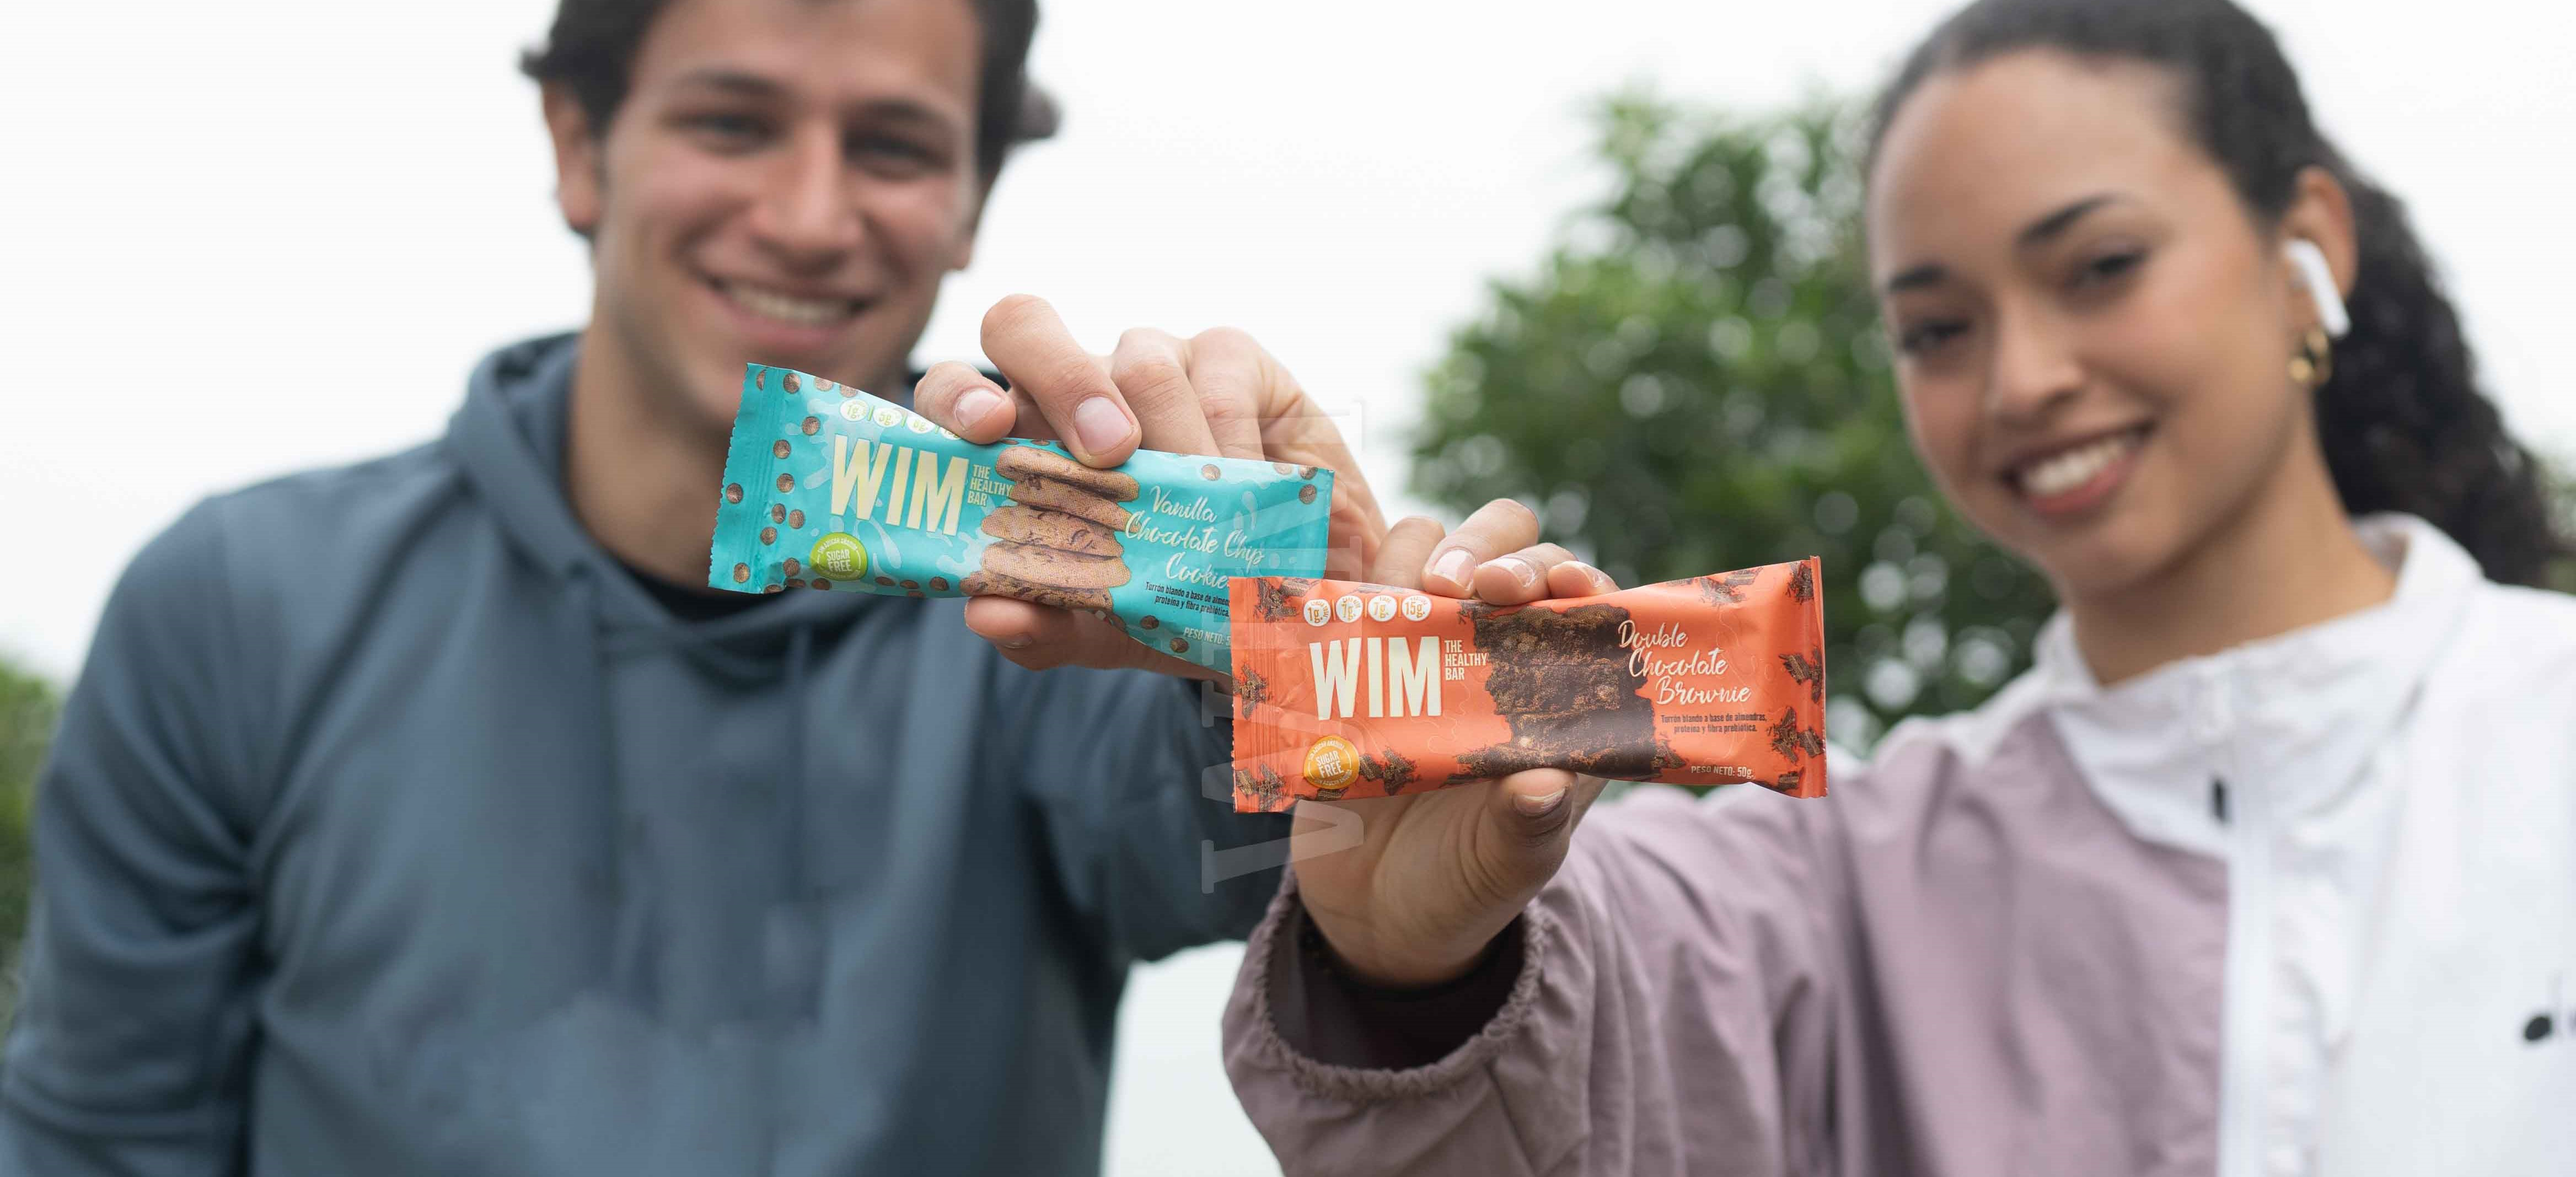
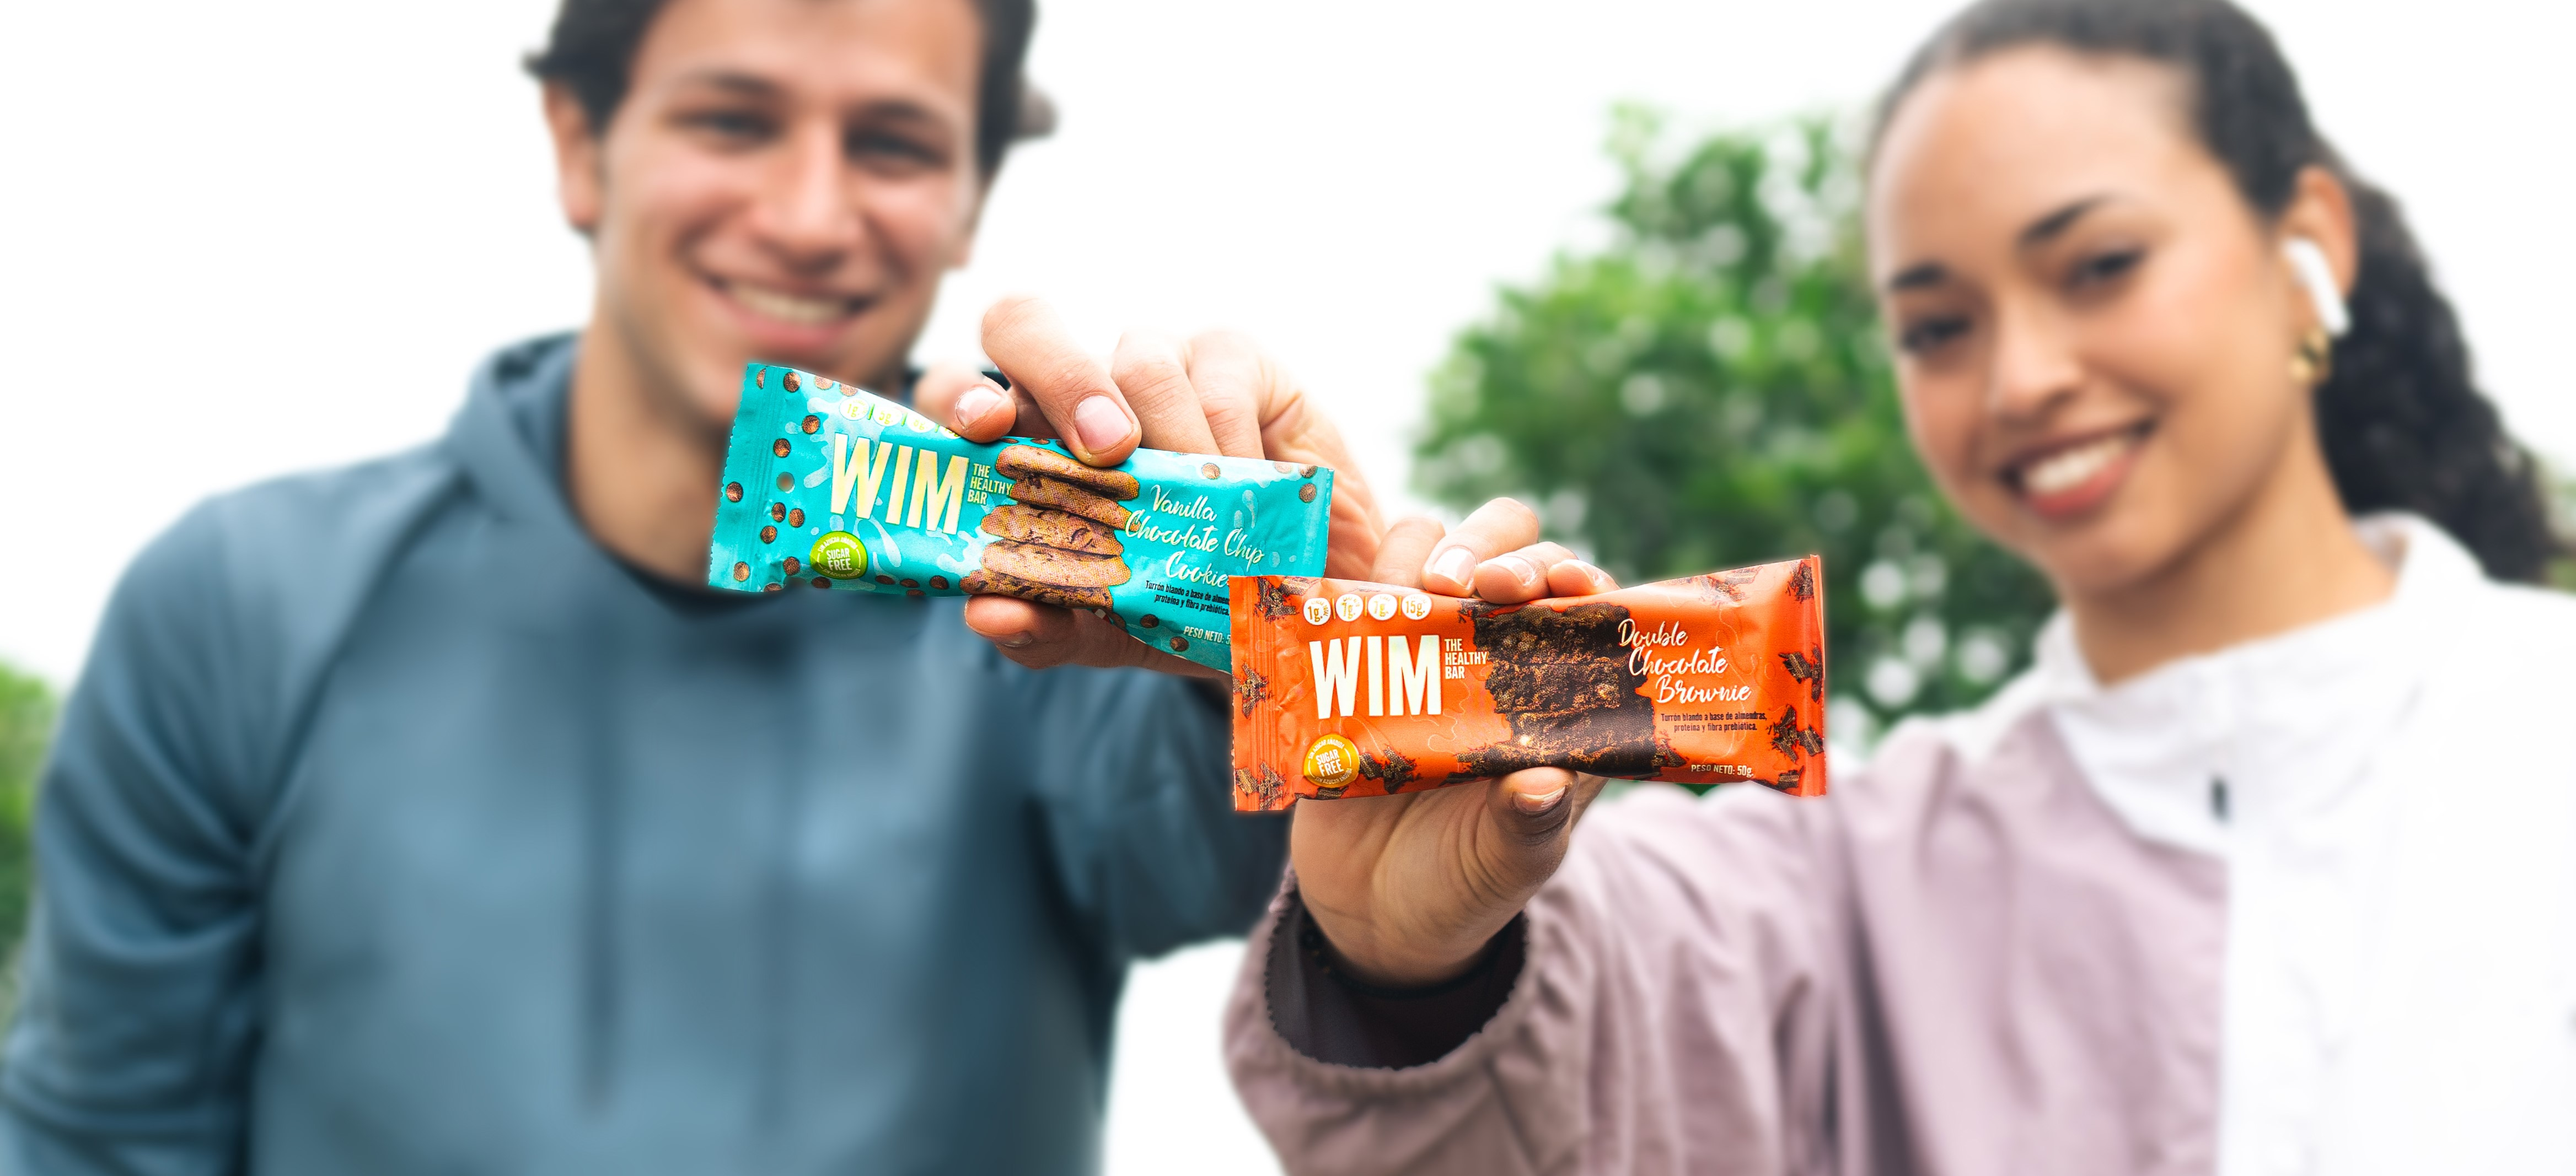
wim final check 1

diff --git a/src/pages/OrderPage.jsx b/src/pages/OrderPage.jsx
@@ -472,7 +472,7 @@ const OrderPage = () => {
         <form className="contact-form" onSubmit={handlePaymentComplete}>
           <div className="form-row">
             <div className="form-group">
-              <label htmlFor="first-name">Nombre: *</label>
+              <label htmlFor="first-name">Nombre:</label>
               <input
                 type="text"
                 id="first-name"
@@ -494,7 +494,7 @@ const OrderPage = () => {
             </div>
           </div>
           <div className="form-group">
-            <label htmlFor="email">Email: *</label>
+            <label htmlFor="email">Email:</label>
             <input
               type="email"
               id="email"
@@ -515,7 +515,7 @@ const OrderPage = () => {
             ></input>
           </div>
           <div className="form-group">
-            <label htmlFor="subject">País: *</label>
+            <label htmlFor="subject">País:</label>
             <select
               id="subject"
               name="subject"
@@ -526,21 +526,18 @@ const OrderPage = () => {
                 // Set countryCode based on selectedCountry
                 if (selectedCountry === "Peru") {
                   setCountryCode("PE");
-                } else if (selectedCountry === "Netherlands") {
-                  setCountryCode("NL");
                 } else {
                   setCountryCode(""); // Handle 'Other' or default case
                 }
               }}
               required
             >
-              <option value="Peru">Peru</option>
-              <option value="Netherlands">Netherlands</option>
-              <option value="Other">Other</option>
+              <option value="Perú">Perú</option>
+              <option value="Otro">Otro</option>
             </select>
           </div>
           <div className="form-group">
-            <label htmlFor="address">Dirección: *</label>
+            <label htmlFor="address">Dirección:</label>
             <input
               type="text"
               id="address"
@@ -550,20 +547,9 @@ const OrderPage = () => {
               onChange={(e) => setAddress(e.target.value)}
             ></input>
           </div>
-          <div className="form-group">
-            <label htmlFor="poBox">PO Box: *</label>
-            <input
-              type="text"
-              id="poBox"
-              name="poBox"
-              value={poBox}
-              required
-              onChange={(e) => setPoBox(e.target.value)}
-            ></input>
-          </div>
           <div className="form-row">
             <div className="form-group">
-              <label htmlFor="city">Ciudad: *</label>
+              <label htmlFor="city">Ciudad:</label>
               <input
                 type="text"
                 id="city"
@@ -575,17 +561,32 @@ const OrderPage = () => {
             </div>
             <div className="form-group">
               <label htmlFor="postalCode">Distrito:</label>
-              <input
-                type="text"
+              <select
                 id="postalCode"
                 name="postalCode"
                 value={postalCode}
                 onChange={(e) => setPostalCode(e.target.value)}
-              ></input>
+              >
+                <option value="">Seleccionar Distrito</option>
+                <option value="Barranco">Barranco</option>
+                <option value="Chorrillos">Chorrillos</option>
+                <option value="Jesús María">Jesús María</option>
+                <option value="La Molina">La Molina</option>
+                <option value="La Victoria">La Victoria</option>
+                <option value="Lince">Lince</option>
+                <option value="Magdalena">Magdalena</option>
+                <option value="Miraflores">Miraflores</option>
+                <option value="Pueblo Libre">Pueblo Libre</option>
+                <option value="San Borja">San Borja</option>
+                <option value="San Isidro">San Isidro</option>
+                <option value="San Miguel">San Miguel</option>
+                <option value="Surco">Surco</option>
+                <option value="Surquillo">Surquillo</option>
+              </select>
             </div>
           </div>
           <button type="submit" className="submit-button">
-            Comprar Artículos
+            Pagar
           </button>
           {submitMessage && <p className="submit-message">{submitMessage}</p>}
         </form>
@@ -620,7 +621,7 @@ const OrderPage = () => {
             <span>S/{formatCurrency(subTotal)}</span>
           </div>
           <div className="order_number_txt_box">
-            <span>Gastos de Envío</span>
+            <span>Delivery</span>
             <span className={deliveryFree ? "strikethrough" : ""}>
               {formatCurrency(shipping)}
             </span>

diff --git a/src/components/general/products.jsx b/src/components/general/products.jsx
@@ -5,7 +5,7 @@ const products = [
         id: "203",
         description:
       "Disfruta de ese irresistible sabor que todos aman, una galleta de vainilla con chispas de chocolate recién salida del horno. Con 15 gramos de proteína, 8 gramos de fibra y solo 1 gramo de azúcar, esta barra es la opción perfecta para esos momentos del #quécomo ¡Celebra tu #momentoWIMdeldía con una WIM The Healthy Bar!",
-        price: "49.90 ",
+        price: "47.90 ",
         weight: "300gr.",
         serving: "6 Barras (50gr. c/u)",
         carouselImage: "/vanilla chocolate chip.png",
@@ -24,7 +24,7 @@ const products = [
         id: "204",
         description:
       "Para los fieles amantes del chocolate,  una experiencia indulgente que solo el brownie más amelcochado puede brindar; una explosión de sabor en cada bocado. Con 15 gramos de proteína, 7 gramos de fibra y solo 1 gramo de azúcar, esta barra es la opción perfecta para esos momentos del #quécomo ¡Celebra tu #momentoWIMdeldía con una WIM The Healthy Bar!",
-        price: "49.90 ",
+        price: "47.90 ",
         weight: "300gr.",
         serving: "6 Barras (50gr. c/u)",
         carouselImage: "/double chocolate brownie.png",
@@ -38,5 +38,7 @@ const products = [
         color: "#dd6543",
       },
 ];
+
+export const shipping = 5.00;
 
 export default products;

diff --git a/src/components/cart/MainCart.jsx b/src/components/cart/MainCart.jsx
@@ -9,6 +9,7 @@ const MainCart = ({ toggleSidebar }) => {
     calculateSubtotal,
     calculateTotal,
     calculateShippingCost,
+    cartItemCount,
   } = useCart();
 
   const [subTotal, setSubTotal] = useState(0);
@@ -32,7 +33,10 @@ const MainCart = ({ toggleSidebar }) => {
   return (
     <div className="sidebar-overlay">
       <div className="sidebar">
-        <h2>Artículos en la Cesta</h2>
+        <h2>Mi Carrito ({cartItemCount})</h2>
+        <div className="free-delivery-banner" style={{ backgroundColor: "#333", color: "#fff", padding: "10px", borderRadius: "5px", marginBottom: "10px", textAlign: "center" }}>
+          Te faltan S/. 90.00 para delivery gratis.
+        </div>
         <div className="cart_item_box" style={{ overflowY: "auto" }}>
           {cart.map((product, index) => (
             <CartItemCard

diff --git a/src/styles/order_page.css b/src/styles/order_page.css
@@ -16,6 +16,11 @@
 .right_shopping {
     box-shadow: rgba(0, 0, 0, 0.12) 0px 1px 3px, rgba(0, 0, 0, 0.24) 0px 1px 2px;
     padding: 2vh 1vw;
+    border-radius: 5px;
+    position: sticky;
+    top: 10vh; /* Adjust this value to position the right side as desired */
+    max-height: 60vh; /* Adjust this value according to your needs */
+    overflow-y: auto;
 }
 
 .coupon_box {
@@ -67,6 +72,11 @@
 
 .strikethrough {
     text-decoration: line-through;
+}
+
+.submit-button {
+    font-size: 20px;
+    font-weight: bold;
 }
   
 

diff --git a/src/components/product_page/image-slider.jsx b/src/components/product_page/image-slider.jsx
@@ -26,8 +26,8 @@ const CompareSlider = () => {
   return (
     <div ref={sliderRef} style={sliderStyle}>
       <ReactCompareSlider
-        itemOne={<ReactCompareSliderImage src="orange slider.png" alt="Opened" />}
-        itemTwo={<ReactCompareSliderImage src="blue slider1.png" alt="Unopened" />}
+        itemOne={<ReactCompareSliderImage src="blue slider.jpg" alt="Opened" />}
+        itemTwo={<ReactCompareSliderImage src="oranger slider.jpg" alt="Unopened" />}
       />
     </div>
   );

diff --git a/src/contexts/CartContext.jsx b/src/contexts/CartContext.jsx
@@ -3,6 +3,7 @@ import {
   addToCart as addToCartUtil,
   getCart as getCartUtil,
 } from "../utils/cart";
+import { shipping } from "../components/general/products";
 
 const CartContext = createContext();
 
@@ -59,7 +60,7 @@ export const CartProvider = ({ children }) => {
   };
 
   const calculateShippingCost = () => {
-    return subTotal > 50000 ? 0 : 5.95;
+    return subTotal > 50000 ? 0 : shipping;
   };
 
   const calculateTotal = () => {

diff --git a/src/styles/regulations/deliveryPolicy.css b/src/styles/regulations/deliveryPolicy.css
@@ -12,7 +12,7 @@
     width: 100%;
     line-height: 1.6;
     font-family: Arial, sans-serif;
-    text-align: center;
+    text-align: left;
     color: black;
   }
   
@@ -43,7 +43,7 @@
     list-style-type: disc;
     margin-left: 20px;
     font-size: 18px;
-    text-align: center;
+    text-align: left;
     display: inline-block;
   }
   

diff --git a/src/styles/regulations/privacyPolicy.css b/src/styles/regulations/privacyPolicy.css
@@ -43,7 +43,7 @@
     list-style-type: disc;
     margin-left: 20px;
     font-size: 18px;
-    text-align: center; /* Keep the list items text aligned to the left */
+    text-align: left; /* Keep the list items text aligned to the left */
     display: inline-block; /* This ensures the list is centered properly */
   }
   

diff --git a/src/components/general/FadeInObserver.jsx b/src/components/general/FadeInObserver.jsx
@@ -7,7 +7,7 @@ const FadeInObserver = ({ children }) => {
     const faders = document.querySelectorAll('.fade-wrapper > *');
 
     const appearOptions = {
-      threshold: 0.5,
+      threshold: 0.05,
       rootMargin: "0px 0px -50px 0px"
     };
 

diff --git a/src/styles/regulations/cambiosPolicy.css b/src/styles/regulations/cambiosPolicy.css
@@ -12,7 +12,7 @@
     width: 100%;
     line-height: 1.6;
     font-family: Arial, sans-serif;
-    text-align: center;
+    text-align: left;
     color: black;
   }
   

diff --git a/src/styles/regulations/termsAndConditions.css b/src/styles/regulations/termsAndConditions.css
@@ -12,7 +12,7 @@
     width: 100%;
     line-height: 1.6;
     font-family: Arial, sans-serif;
-    text-align: center;
+    text-align: left;
     color: black;
   }
   

diff --git a/src/styles/product_page/PhotosPage.css b/src/styles/product_page/PhotosPage.css
@@ -52,7 +52,7 @@
 }
 
 .biggest {
-  width: 230%;
+  width: calc(300vw + ((1920px - 100vw) / (1920 - 1250)) * (2600 - 300));
   aspect-ratio: 1 / 1;
 }
 
